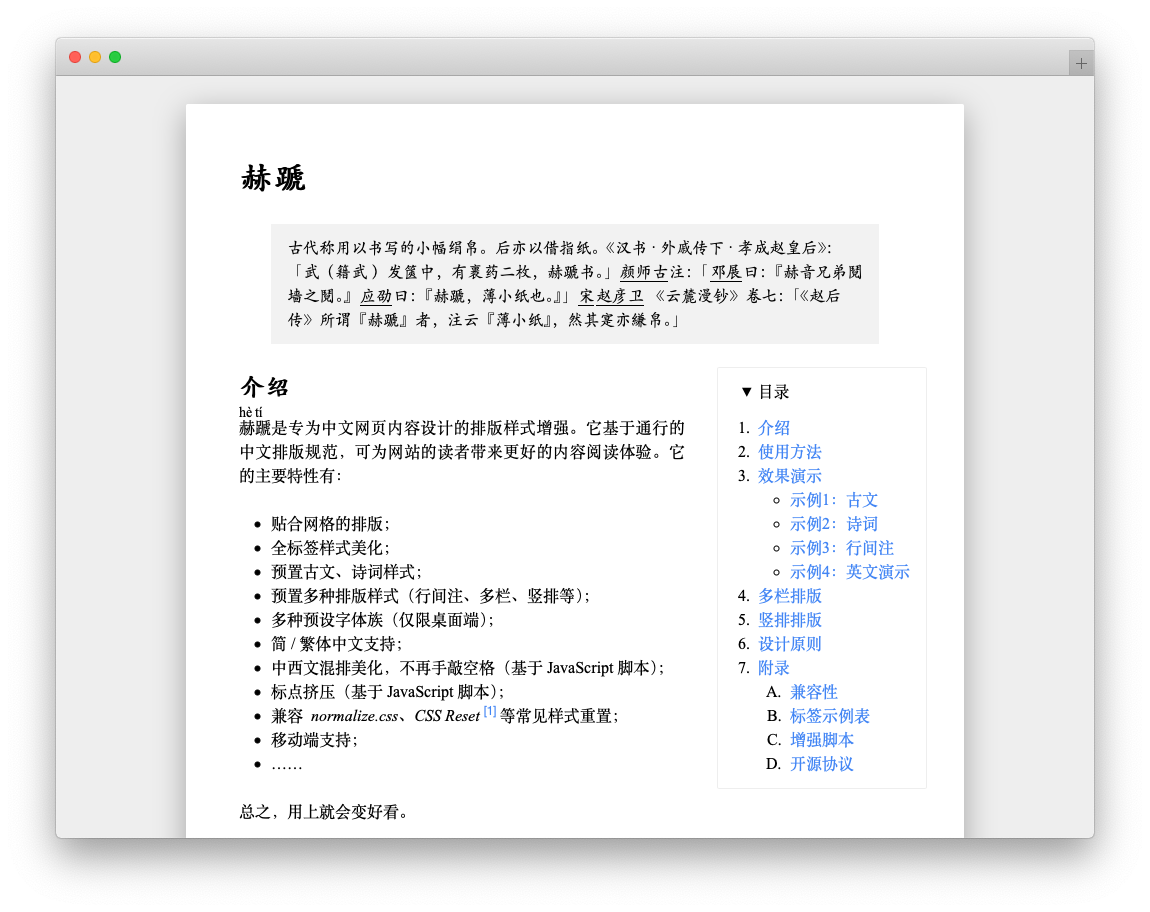
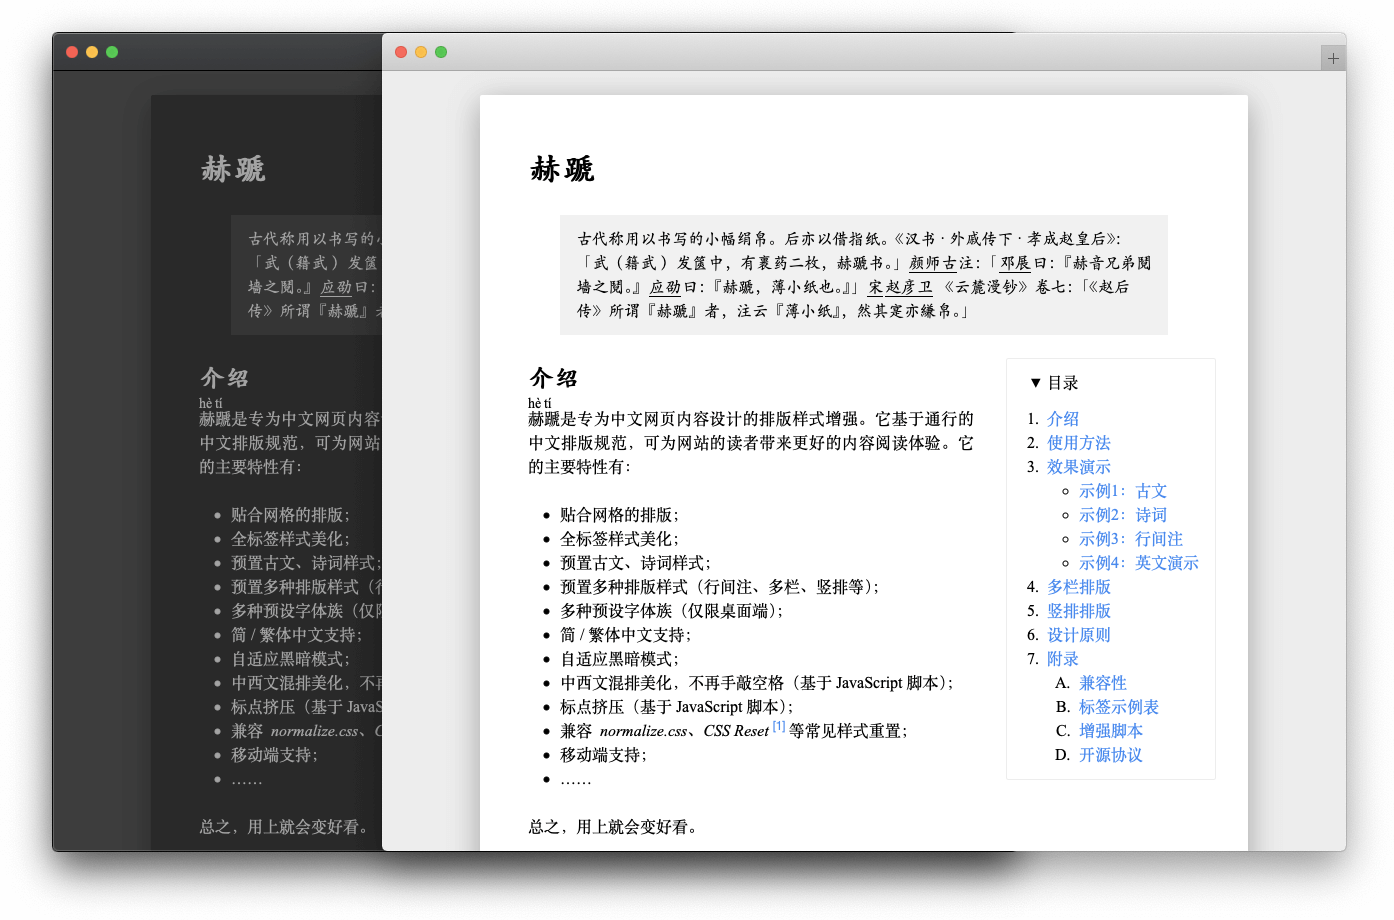
docs: update screenshot

diff --git a/_site/index.css b/_site/index.css
@@ -203,7 +203,7 @@ a { color: #4387f4; text-decoration: none; }
 .section { width: 100%; max-height: 85vh; margin-block-start: 12px; margin-block-end: 12px; overflow: auto; }
 
 @media screen and (min-width: 640px) { body { min-width: 640px; background-color: #ededed; }
-  .container { box-sizing: border-box; width: 80%; min-width: 640px; max-width: 880px; margin-block-start: 48px; margin-block-end: 72px; margin-inline-start: auto; margin-inline-end: auto; padding-block-start: 48px; padding-block-end: 48px; padding-inline-start: 48px; padding-inline-end: 48px; border-radius: 2px; box-shadow: 0 8px 32px rgba(0, 0, 0, 0.32); background-color: white; }
+  .container { box-sizing: border-box; width: 80%; min-width: 640px; max-width: 768px; margin-block-start: 48px; margin-block-end: 72px; margin-inline-start: auto; margin-inline-end: auto; padding-block-start: 48px; padding-block-end: 48px; padding-inline-start: 48px; padding-inline-end: 48px; border-radius: 2px; box-shadow: 0 8px 32px rgba(0, 0, 0, 0.32); background-color: white; }
   .section { max-height: none; overflow: visible; } }
 
 @media screen and (min-width: 900px) { .article__nav { position: relative; z-index: 1; float: right; width: 192px; margin-block-start: -1px; margin-block-end: 12px; margin-inline-start: 32px; margin-inline-end: -16px; padding-block-start: 12px; padding-block-end: 12px; padding-inline-start: 8px; padding-inline-end: 8px; border: 1px solid #ededed; border-radius: 2px; }

diff --git a/_site/scss/index.scss b/_site/scss/index.scss
@@ -77,7 +77,7 @@ a {
     box-sizing: border-box;
     width: 80%;
     min-width: 640px;
-    max-width: 880px;
+    max-width: 768px;
     margin-block-start: 48px;
     margin-block-end: 72px;
     margin-inline-start: auto;
